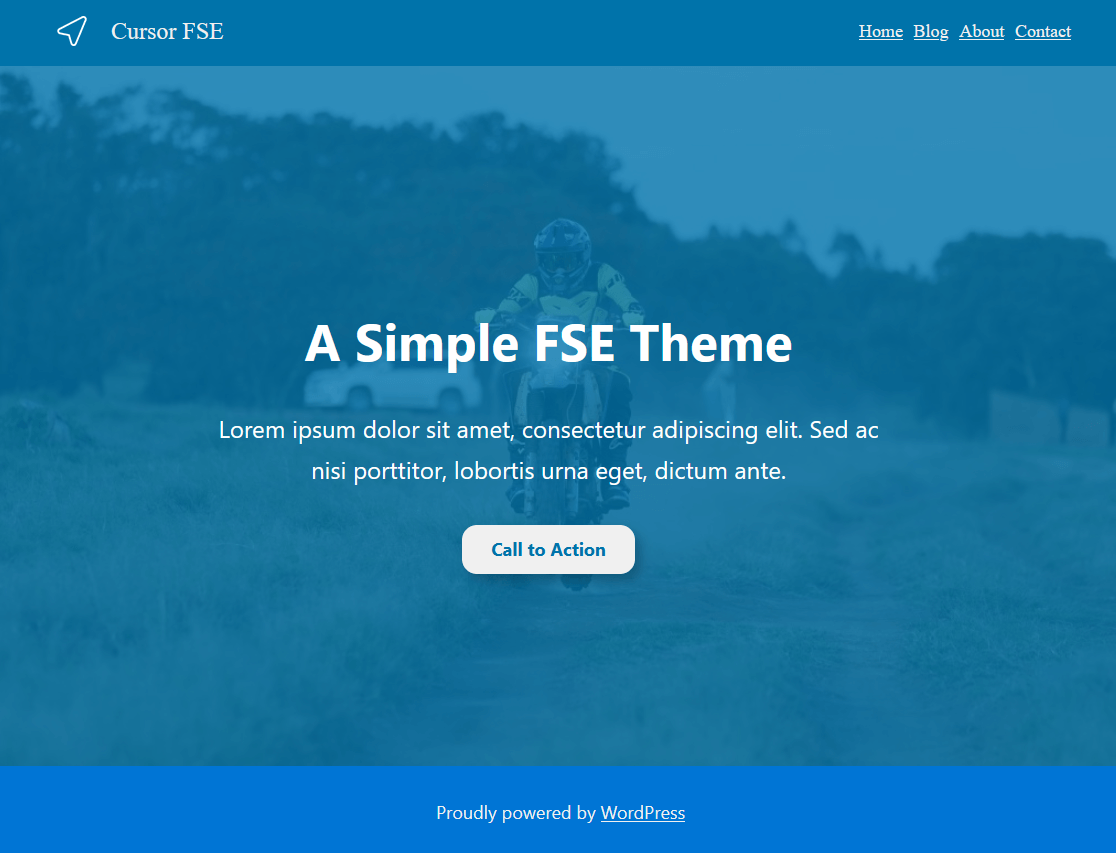
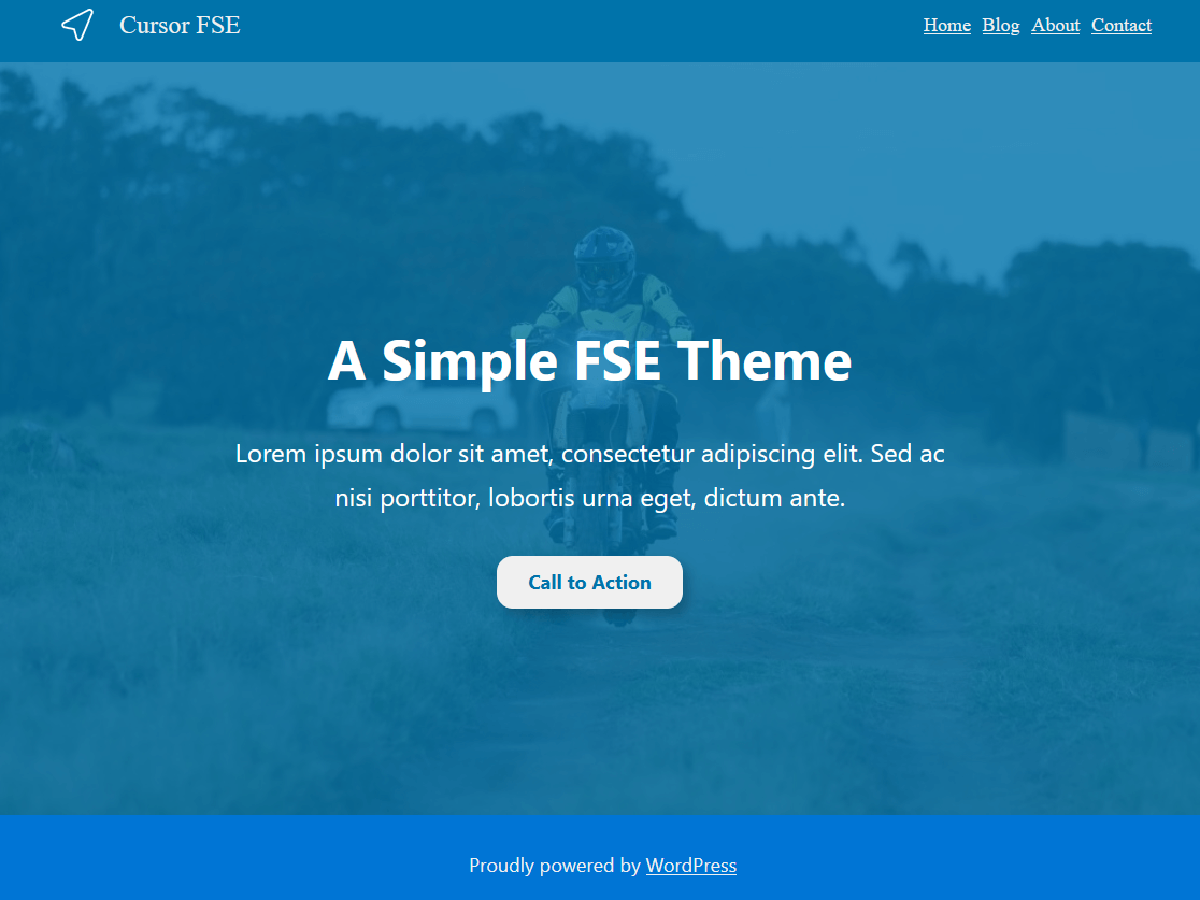
Currsor 1.4
Changed a few things
1. Image url to be more dynamic and available
2. removed old screenshot file
3. Added the priview image to assets

diff --git a/templates/front-page.html b/templates/front-page.html
@@ -1,7 +1,7 @@
 <!-- wp:template-part {"slug":"header","area":"header"} /-->
 
-<!-- wp:cover {"url":"http://localhost:8881/wp-content/uploads/2025/06/Rider-1024x682.jpg","id":10,"dimRatio":80,"overlayColor":"primary","isUserOverlayColor":true,"minHeight":700,"minHeightUnit":"px","sizeSlug":"large","style":{"spacing":{"padding":{"top":"var:preset|spacing|80","bottom":"var:preset|spacing|20","left":"0"},"margin":{"top":"0","bottom":"0"}}},"layout":{"type":"constrained"}} -->
-<div class="wp-block-cover" style="margin-top:0;margin-bottom:0;padding-top:var(--wp--preset--spacing--80);padding-bottom:var(--wp--preset--spacing--20);padding-left:0;min-height:700px"><img class="wp-block-cover__image-background wp-image-10 size-large" alt="" src="http://localhost:8881/wp-content/uploads/2025/06/Rider-1024x682.jpg" data-object-fit="cover"/><span aria-hidden="true" class="wp-block-cover__background has-primary-background-color has-background-dim-80 has-background-dim"></span><div class="wp-block-cover__inner-container"><!-- wp:group {"align":"wide","layout":{"type":"constrained","wideSize":"1100px","contentSize":"700px"}} -->
+<!-- wp:cover {"url":"/wp-content/themes/cursorfse/assets/images/Rider-1024x682.jpg","id":10,"dimRatio":80,"overlayColor":"primary","isUserOverlayColor":true,"minHeight":700,"minHeightUnit":"px","sizeSlug":"large","style":{"spacing":{"padding":{"top":"var:preset|spacing|80","bottom":"var:preset|spacing|20","left":"0"},"margin":{"top":"0","bottom":"0"}}},"layout":{"type":"constrained"}} -->
+<div class="wp-block-cover" style="margin-top:0;margin-bottom:0;padding-top:var(--wp--preset--spacing--80);padding-bottom:var(--wp--preset--spacing--20);padding-left:0;min-height:700px"><img class="wp-block-cover__image-background wp-image-10 size-large" alt="" src="/wp-content/themes/cursorfse/assets/images/Rider-1024x682.jpg" data-object-fit="cover"/><span aria-hidden="true" class="wp-block-cover__background has-primary-background-color has-background-dim-80 has-background-dim"></span><div class="wp-block-cover__inner-container"><!-- wp:group {"align":"wide","layout":{"type":"constrained","wideSize":"1100px","contentSize":"700px"}} -->
 <div class="wp-block-group alignwide"><!-- wp:heading {"textAlign":"center","level":1,"align":"wide","style":{"typography":{"fontSize":"3.2rem"}}} -->
 <h1 class="wp-block-heading alignwide has-text-align-center" style="font-size:3.2rem">A Simple FSE Theme</h1>
 <!-- /wp:heading -->

diff --git a/style.css b/style.css
@@ -5,7 +5,7 @@ Author URI: https://mosescursor.com/
 Theme URI: https://github.com/Successfulsebunya/CursorFSE
 Description: A clean and responsive WordPress Block theme for bloggers and small businesses.
 Tags: full-site-editing, block-patterns, blog, one-column, custom-background, custom-colors, custom-logo, custom-menu, editor-style, featured-images, footer-widgets, full-width-template, rtl-language-support, sticky-post, theme-options, threaded-comments, translation-ready, block-styles, wide-blocks, accessibility-ready
-Version: 1.3
+Version: 1.4
 Text Domain: cursorfse
 Requires at least: 6.4
 Requires PHP: 7.4
